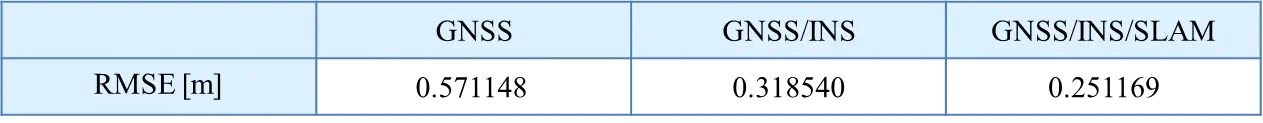
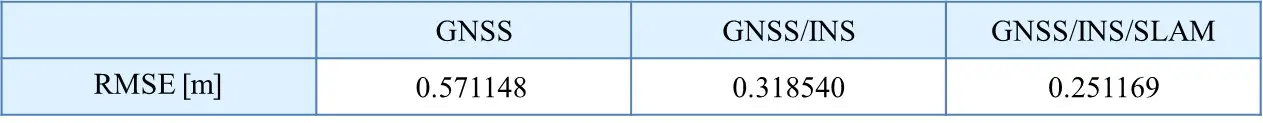
Deploying to gh-pages from @ yu-jin2/yu-jin2.github.io@6fb53cee6a149577d3ae32b272d13368082f5768 🚀

Changed region(s): [[0.0, 0.0, 1.0, 0.0244], [0.247, 0.9268, 1.0, 0.9512], [0.4941, 0.4634, 1.0, 0.4878]]

diff --git a/blog/2024/tabs/index.html b/blog/2024/tabs/index.html
@@ -15,15 +15,15 @@ Content 2
 <span class="cp">{%</span><span class="w"> </span><span class="nt">endtab</span><span class="w"> </span><span class="cp">%}</span>
 
 <span class="cp">{%</span><span class="w"> </span><span class="nt">endtabs</span><span class="w"> </span><span class="cp">%}</span>
-</code></pre></div></div> <p>With this you can generate visualizations like:</p> <ul id="log" class="tab" data-tab="a2d64f60-4695-4b3b-a438-cf49636d2ded" data-name="log"> <li class="active" id="log-php"> <a href="#">php </a> </li> <li id="log-js"> <a href="#">js </a> </li> <li id="log-ruby"> <a href="#">ruby </a> </li> </ul> <ul class="tab-content" id="a2d64f60-4695-4b3b-a438-cf49636d2ded" data-name="log"> <li class="active"> <div class="language-php highlighter-rouge"><div class="highlight"><pre class="highlight"><code><span class="nb">var_dump</span><span class="p">(</span><span class="s1">'hello'</span><span class="p">);</span>
+</code></pre></div></div> <p>With this you can generate visualizations like:</p> <ul id="log" class="tab" data-tab="b13f70d9-fee7-4656-88b4-48de890c7dd6" data-name="log"> <li class="active" id="log-php"> <a href="#">php </a> </li> <li id="log-js"> <a href="#">js </a> </li> <li id="log-ruby"> <a href="#">ruby </a> </li> </ul> <ul class="tab-content" id="b13f70d9-fee7-4656-88b4-48de890c7dd6" data-name="log"> <li class="active"> <div class="language-php highlighter-rouge"><div class="highlight"><pre class="highlight"><code><span class="nb">var_dump</span><span class="p">(</span><span class="s1">'hello'</span><span class="p">);</span>
 </code></pre></div></div> </li> <li> <div class="language-javascript highlighter-rouge"><div class="highlight"><pre class="highlight"><code><span class="nx">console</span><span class="p">.</span><span class="nf">log</span><span class="p">(</span><span class="dl">"</span><span class="s2">hello</span><span class="dl">"</span><span class="p">);</span>
 </code></pre></div></div> </li> <li> <div class="language-javascript highlighter-rouge"><div class="highlight"><pre class="highlight"><code><span class="nx">pputs</span> <span class="dl">'</span><span class="s1">hello</span><span class="dl">'</span>
-</code></pre></div></div> </li> </ul> <h2 id="another-example">Another example</h2> <ul id="data-struct" class="tab" data-tab="744c5cc6-cb8f-4531-8bd5-fd997501a094" data-name="data-struct"> <li class="active" id="data-struct-yaml"> <a href="#">yaml </a> </li> <li id="data-struct-json"> <a href="#">json </a> </li> </ul> <ul class="tab-content" id="744c5cc6-cb8f-4531-8bd5-fd997501a094" data-name="data-struct"> <li class="active"> <div class="language-yaml highlighter-rouge"><div class="highlight"><pre class="highlight"><code><span class="na">hello</span><span class="pi">:</span>
+</code></pre></div></div> </li> </ul> <h2 id="another-example">Another example</h2> <ul id="data-struct" class="tab" data-tab="4a296477-9d8a-42ac-9bd1-449c19644002" data-name="data-struct"> <li class="active" id="data-struct-yaml"> <a href="#">yaml </a> </li> <li id="data-struct-json"> <a href="#">json </a> </li> </ul> <ul class="tab-content" id="4a296477-9d8a-42ac-9bd1-449c19644002" data-name="data-struct"> <li class="active"> <div class="language-yaml highlighter-rouge"><div class="highlight"><pre class="highlight"><code><span class="na">hello</span><span class="pi">:</span>
   <span class="pi">-</span> <span class="s2">"</span><span class="s">whatsup"</span>
   <span class="pi">-</span> <span class="s2">"</span><span class="s">hi"</span>
 </code></pre></div></div> </li> <li> <div class="language-json highlighter-rouge"><div class="highlight"><pre class="highlight"><code><span class="p">{</span><span class="w">
   </span><span class="nl">"hello"</span><span class="p">:</span><span class="w"> </span><span class="p">[</span><span class="s2">"whatsup"</span><span class="p">,</span><span class="w"> </span><span class="s2">"hi"</span><span class="p">]</span><span class="w">
 </span><span class="p">}</span><span class="w">
-</span></code></pre></div></div> </li> </ul> <h2 id="tabs-for-something-else">Tabs for something else</h2> <ul id="something-else" class="tab" data-tab="897ace37-d9b1-4a9b-85f1-f09ae40865ed" data-name="something-else"> <li class="active" id="something-else-text"> <a href="#">text </a> </li> <li id="something-else-quote"> <a href="#">quote </a> </li> <li id="something-else-list"> <a href="#">list </a> </li> </ul> <ul class="tab-content" id="897ace37-d9b1-4a9b-85f1-f09ae40865ed" data-name="something-else"> <li class="active"> <p>Regular text</p> </li> <li> <blockquote> <p>A quote</p> </blockquote> </li> <li> <p>Hipster list</p> <ul> <li>brunch</li> <li>fixie</li> <li>raybans</li> <li>messenger bag</li> </ul> </li> </ul> </div> </article> <br> <hr> <br> <ul class="list-disc pl-8"></ul> <h2 class="text-3xl font-semibold mb-4 mt-12">Enjoy Reading This Article?</h2> <p class="mb-2">Here are some more articles you might like to read next:</p> <li class="my-2"> <a class="text-pink-700 underline font-semibold hover:text-pink-800" href="https://blog.google/technology/ai/google-gemini-update-flash-ai-assistant-io-2024/" target="_blank" rel="external nofollow noopener">Google Gemini updates: Flash 1.5, Gemma 2 and Project Astra</a> <svg width="1rem" height="1rem" viewbox="0 0 30 30" xmlns="http://www.w3.org/2000/svg"> <path d="M17 13.5v6H5v-12h6m3-3h6v6m0-6-9 9" class="icon_svg-stroke" stroke="#999" stroke-width="1.5" fill="none" fill-rule="evenodd" stroke-linecap="round" stroke-linejoin="round"></path> </svg> </li> <li class="my-2"> <a class="text-pink-700 underline font-semibold hover:text-pink-800" href="https://medium.com/@al-folio/displaying-external-posts-on-your-al-folio-blog-b60a1d241a0a?source=rss-17feae71c3c4------2" target="_blank" rel="external nofollow noopener">Displaying External Posts on Your al-folio Blog</a> <svg width="1rem" height="1rem" viewbox="0 0 30 30" xmlns="http://www.w3.org/2000/svg"> <path d="M17 13.5v6H5v-12h6m3-3h6v6m0-6-9 9" class="icon_svg-stroke" stroke="#999" stroke-width="1.5" fill="none" fill-rule="evenodd" stroke-linecap="round" stroke-linejoin="round"></path> </svg> </li> <li class="my-2"> <a class="text-pink-700 underline font-semibold hover:text-pink-800" href="/blog/2025/plotly/">a post with plotly.js</a> </li> <li class="my-2"> <a class="text-pink-700 underline font-semibold hover:text-pink-800" href="/blog/2024/photo-gallery/">a post with image galleries</a> </li> <li class="my-2"> <a class="text-pink-700 underline font-semibold hover:text-pink-800" href="/blog/2024/typograms/">a post with typograms</a> </li> </div> </div> <footer class="fixed-bottom" role="contentinfo"> <div class="container mt-0"> © Copyright 2026 Yujin Lee. Powered by <a href="https://jekyllrb.com/" target="_blank" rel="external nofollow noopener">Jekyll</a> with <a href="https://github.com/alshedivat/al-folio" rel="external nofollow noopener" target="_blank">al-folio</a> theme. Hosted by <a href="https://pages.github.com/" target="_blank" rel="external nofollow noopener">GitHub Pages</a>. Photos from <a href="https://unsplash.com" target="_blank" rel="external nofollow noopener">Unsplash</a>. </div> </footer> <script src="https://cdn.jsdelivr.net/npm/jquery@3.6.0/dist/jquery.min.js" integrity="sha256-/xUj+3OJU5yExlq6GSYGSHk7tPXikynS7ogEvDej/m4=" crossorigin="anonymous"></script> <script src="/assets/js/bootstrap.bundle.min.js"></script> <script src="https://cdn.jsdelivr.net/npm/mdbootstrap@4.20.0/js/mdb.min.js" integrity="sha256-NdbiivsvWt7VYCt6hYNT3h/th9vSTL4EDWeGs5SN3DA=" crossorigin="anonymous"></script> <script defer src="https://cdn.jsdelivr.net/npm/masonry-layout@4.2.2/dist/masonry.pkgd.min.js" integrity="sha256-Nn1q/fx0H7SNLZMQ5Hw5JLaTRZp0yILA/FRexe19VdI=" crossorigin="anonymous"></script> <script defer src="https://cdn.jsdelivr.net/npm/imagesloaded@5.0.0/imagesloaded.pkgd.min.js" integrity="sha256-htrLFfZJ6v5udOG+3kNLINIKh2gvoKqwEhHYfTTMICc=" crossorigin="anonymous"></script> <script defer src="/assets/js/masonry.js?v=a0db7e5d5c70cc3252b3138b0c91dcaf" type="text/javascript"></script> <script defer src="https://cdn.jsdelivr.net/npm/medium-zoom@1.1.0/dist/medium-zoom.min.js" integrity="sha256-ZgMyDAIYDYGxbcpJcfUnYwNevG/xi9OHKaR/8GK+jWc=" crossorigin="anonymous"></script> <script defer src="/assets/js/zoom.js?v=85ddb88934d28b74e78031fd54cf8308"></script> <script src="/assets/js/no_defer.js?v=2781658a0a2b13ed609542042a859126"></script> <script defer src="/assets/js/common.js?v=c15de51d4bb57887caa2c21988d97279"></script> <script defer src="/assets/js/copy_code.js?v=c8a01c11a92744d44b093fc3bda915df" type="text/javascript"></script> <script defer src="/assets/js/jupyter_new_tab.js?v=d9f17b6adc2311cbabd747f4538bb15f"></script> <script async src="https://d1bxh8uas1mnw7.cloudfront.net/assets/embed.js"></script> <script async src="https://badge.dimensions.ai/badge.js"></script> <script defer type="text/javascript" id="MathJax-script" src="https://cdn.jsdelivr.net/npm/mathjax@3.2.2/es5/tex-mml-chtml.js" integrity="sha256-MASABpB4tYktI2Oitl4t+78w/lyA+D7b/s9GEP0JOGI=" crossorigin="anonymous"></script> <script src="/assets/js/mathjax-setup.js?v=a5bb4e6a542c546dd929b24b8b236dfd"></script> <script defer src="https://cdnjs.cloudflare.com/polyfill/v3/polyfill.min.js?features=es6" crossorigin="anonymous"></script> <script defer src="/assets/js/progress-bar.js?v=2f30e0e6801ea8f5036fa66e1ab0a71a" type="text/javascript"></script> <script src="/assets/js/tabs.min.js?v=b8748955e1076bbe0dabcf28f2549fdc"></script> <script src="/assets/js/vanilla-back-to-top.min.js?v=f40d453793ff4f64e238e420181a1d17"></script> <script>
+</span></code></pre></div></div> </li> </ul> <h2 id="tabs-for-something-else">Tabs for something else</h2> <ul id="something-else" class="tab" data-tab="a9b9792c-2895-4ae1-93f6-1b2cc37e6d67" data-name="something-else"> <li class="active" id="something-else-text"> <a href="#">text </a> </li> <li id="something-else-quote"> <a href="#">quote </a> </li> <li id="something-else-list"> <a href="#">list </a> </li> </ul> <ul class="tab-content" id="a9b9792c-2895-4ae1-93f6-1b2cc37e6d67" data-name="something-else"> <li class="active"> <p>Regular text</p> </li> <li> <blockquote> <p>A quote</p> </blockquote> </li> <li> <p>Hipster list</p> <ul> <li>brunch</li> <li>fixie</li> <li>raybans</li> <li>messenger bag</li> </ul> </li> </ul> </div> </article> <br> <hr> <br> <ul class="list-disc pl-8"></ul> <h2 class="text-3xl font-semibold mb-4 mt-12">Enjoy Reading This Article?</h2> <p class="mb-2">Here are some more articles you might like to read next:</p> <li class="my-2"> <a class="text-pink-700 underline font-semibold hover:text-pink-800" href="https://blog.google/technology/ai/google-gemini-update-flash-ai-assistant-io-2024/" target="_blank" rel="external nofollow noopener">Google Gemini updates: Flash 1.5, Gemma 2 and Project Astra</a> <svg width="1rem" height="1rem" viewbox="0 0 30 30" xmlns="http://www.w3.org/2000/svg"> <path d="M17 13.5v6H5v-12h6m3-3h6v6m0-6-9 9" class="icon_svg-stroke" stroke="#999" stroke-width="1.5" fill="none" fill-rule="evenodd" stroke-linecap="round" stroke-linejoin="round"></path> </svg> </li> <li class="my-2"> <a class="text-pink-700 underline font-semibold hover:text-pink-800" href="https://medium.com/@al-folio/displaying-external-posts-on-your-al-folio-blog-b60a1d241a0a?source=rss-17feae71c3c4------2" target="_blank" rel="external nofollow noopener">Displaying External Posts on Your al-folio Blog</a> <svg width="1rem" height="1rem" viewbox="0 0 30 30" xmlns="http://www.w3.org/2000/svg"> <path d="M17 13.5v6H5v-12h6m3-3h6v6m0-6-9 9" class="icon_svg-stroke" stroke="#999" stroke-width="1.5" fill="none" fill-rule="evenodd" stroke-linecap="round" stroke-linejoin="round"></path> </svg> </li> <li class="my-2"> <a class="text-pink-700 underline font-semibold hover:text-pink-800" href="/blog/2025/plotly/">a post with plotly.js</a> </li> <li class="my-2"> <a class="text-pink-700 underline font-semibold hover:text-pink-800" href="/blog/2024/photo-gallery/">a post with image galleries</a> </li> <li class="my-2"> <a class="text-pink-700 underline font-semibold hover:text-pink-800" href="/blog/2024/typograms/">a post with typograms</a> </li> </div> </div> <footer class="fixed-bottom" role="contentinfo"> <div class="container mt-0"> © Copyright 2026 Yujin Lee. Powered by <a href="https://jekyllrb.com/" target="_blank" rel="external nofollow noopener">Jekyll</a> with <a href="https://github.com/alshedivat/al-folio" rel="external nofollow noopener" target="_blank">al-folio</a> theme. Hosted by <a href="https://pages.github.com/" target="_blank" rel="external nofollow noopener">GitHub Pages</a>. Photos from <a href="https://unsplash.com" target="_blank" rel="external nofollow noopener">Unsplash</a>. </div> </footer> <script src="https://cdn.jsdelivr.net/npm/jquery@3.6.0/dist/jquery.min.js" integrity="sha256-/xUj+3OJU5yExlq6GSYGSHk7tPXikynS7ogEvDej/m4=" crossorigin="anonymous"></script> <script src="/assets/js/bootstrap.bundle.min.js"></script> <script src="https://cdn.jsdelivr.net/npm/mdbootstrap@4.20.0/js/mdb.min.js" integrity="sha256-NdbiivsvWt7VYCt6hYNT3h/th9vSTL4EDWeGs5SN3DA=" crossorigin="anonymous"></script> <script defer src="https://cdn.jsdelivr.net/npm/masonry-layout@4.2.2/dist/masonry.pkgd.min.js" integrity="sha256-Nn1q/fx0H7SNLZMQ5Hw5JLaTRZp0yILA/FRexe19VdI=" crossorigin="anonymous"></script> <script defer src="https://cdn.jsdelivr.net/npm/imagesloaded@5.0.0/imagesloaded.pkgd.min.js" integrity="sha256-htrLFfZJ6v5udOG+3kNLINIKh2gvoKqwEhHYfTTMICc=" crossorigin="anonymous"></script> <script defer src="/assets/js/masonry.js?v=a0db7e5d5c70cc3252b3138b0c91dcaf" type="text/javascript"></script> <script defer src="https://cdn.jsdelivr.net/npm/medium-zoom@1.1.0/dist/medium-zoom.min.js" integrity="sha256-ZgMyDAIYDYGxbcpJcfUnYwNevG/xi9OHKaR/8GK+jWc=" crossorigin="anonymous"></script> <script defer src="/assets/js/zoom.js?v=85ddb88934d28b74e78031fd54cf8308"></script> <script src="/assets/js/no_defer.js?v=2781658a0a2b13ed609542042a859126"></script> <script defer src="/assets/js/common.js?v=c15de51d4bb57887caa2c21988d97279"></script> <script defer src="/assets/js/copy_code.js?v=c8a01c11a92744d44b093fc3bda915df" type="text/javascript"></script> <script defer src="/assets/js/jupyter_new_tab.js?v=d9f17b6adc2311cbabd747f4538bb15f"></script> <script async src="https://d1bxh8uas1mnw7.cloudfront.net/assets/embed.js"></script> <script async src="https://badge.dimensions.ai/badge.js"></script> <script defer type="text/javascript" id="MathJax-script" src="https://cdn.jsdelivr.net/npm/mathjax@3.2.2/es5/tex-mml-chtml.js" integrity="sha256-MASABpB4tYktI2Oitl4t+78w/lyA+D7b/s9GEP0JOGI=" crossorigin="anonymous"></script> <script src="/assets/js/mathjax-setup.js?v=a5bb4e6a542c546dd929b24b8b236dfd"></script> <script defer src="https://cdnjs.cloudflare.com/polyfill/v3/polyfill.min.js?features=es6" crossorigin="anonymous"></script> <script defer src="/assets/js/progress-bar.js?v=2f30e0e6801ea8f5036fa66e1ab0a71a" type="text/javascript"></script> <script src="/assets/js/tabs.min.js?v=b8748955e1076bbe0dabcf28f2549fdc"></script> <script src="/assets/js/vanilla-back-to-top.min.js?v=f40d453793ff4f64e238e420181a1d17"></script> <script>
     addBackToTop();
   </script> </body> </html>